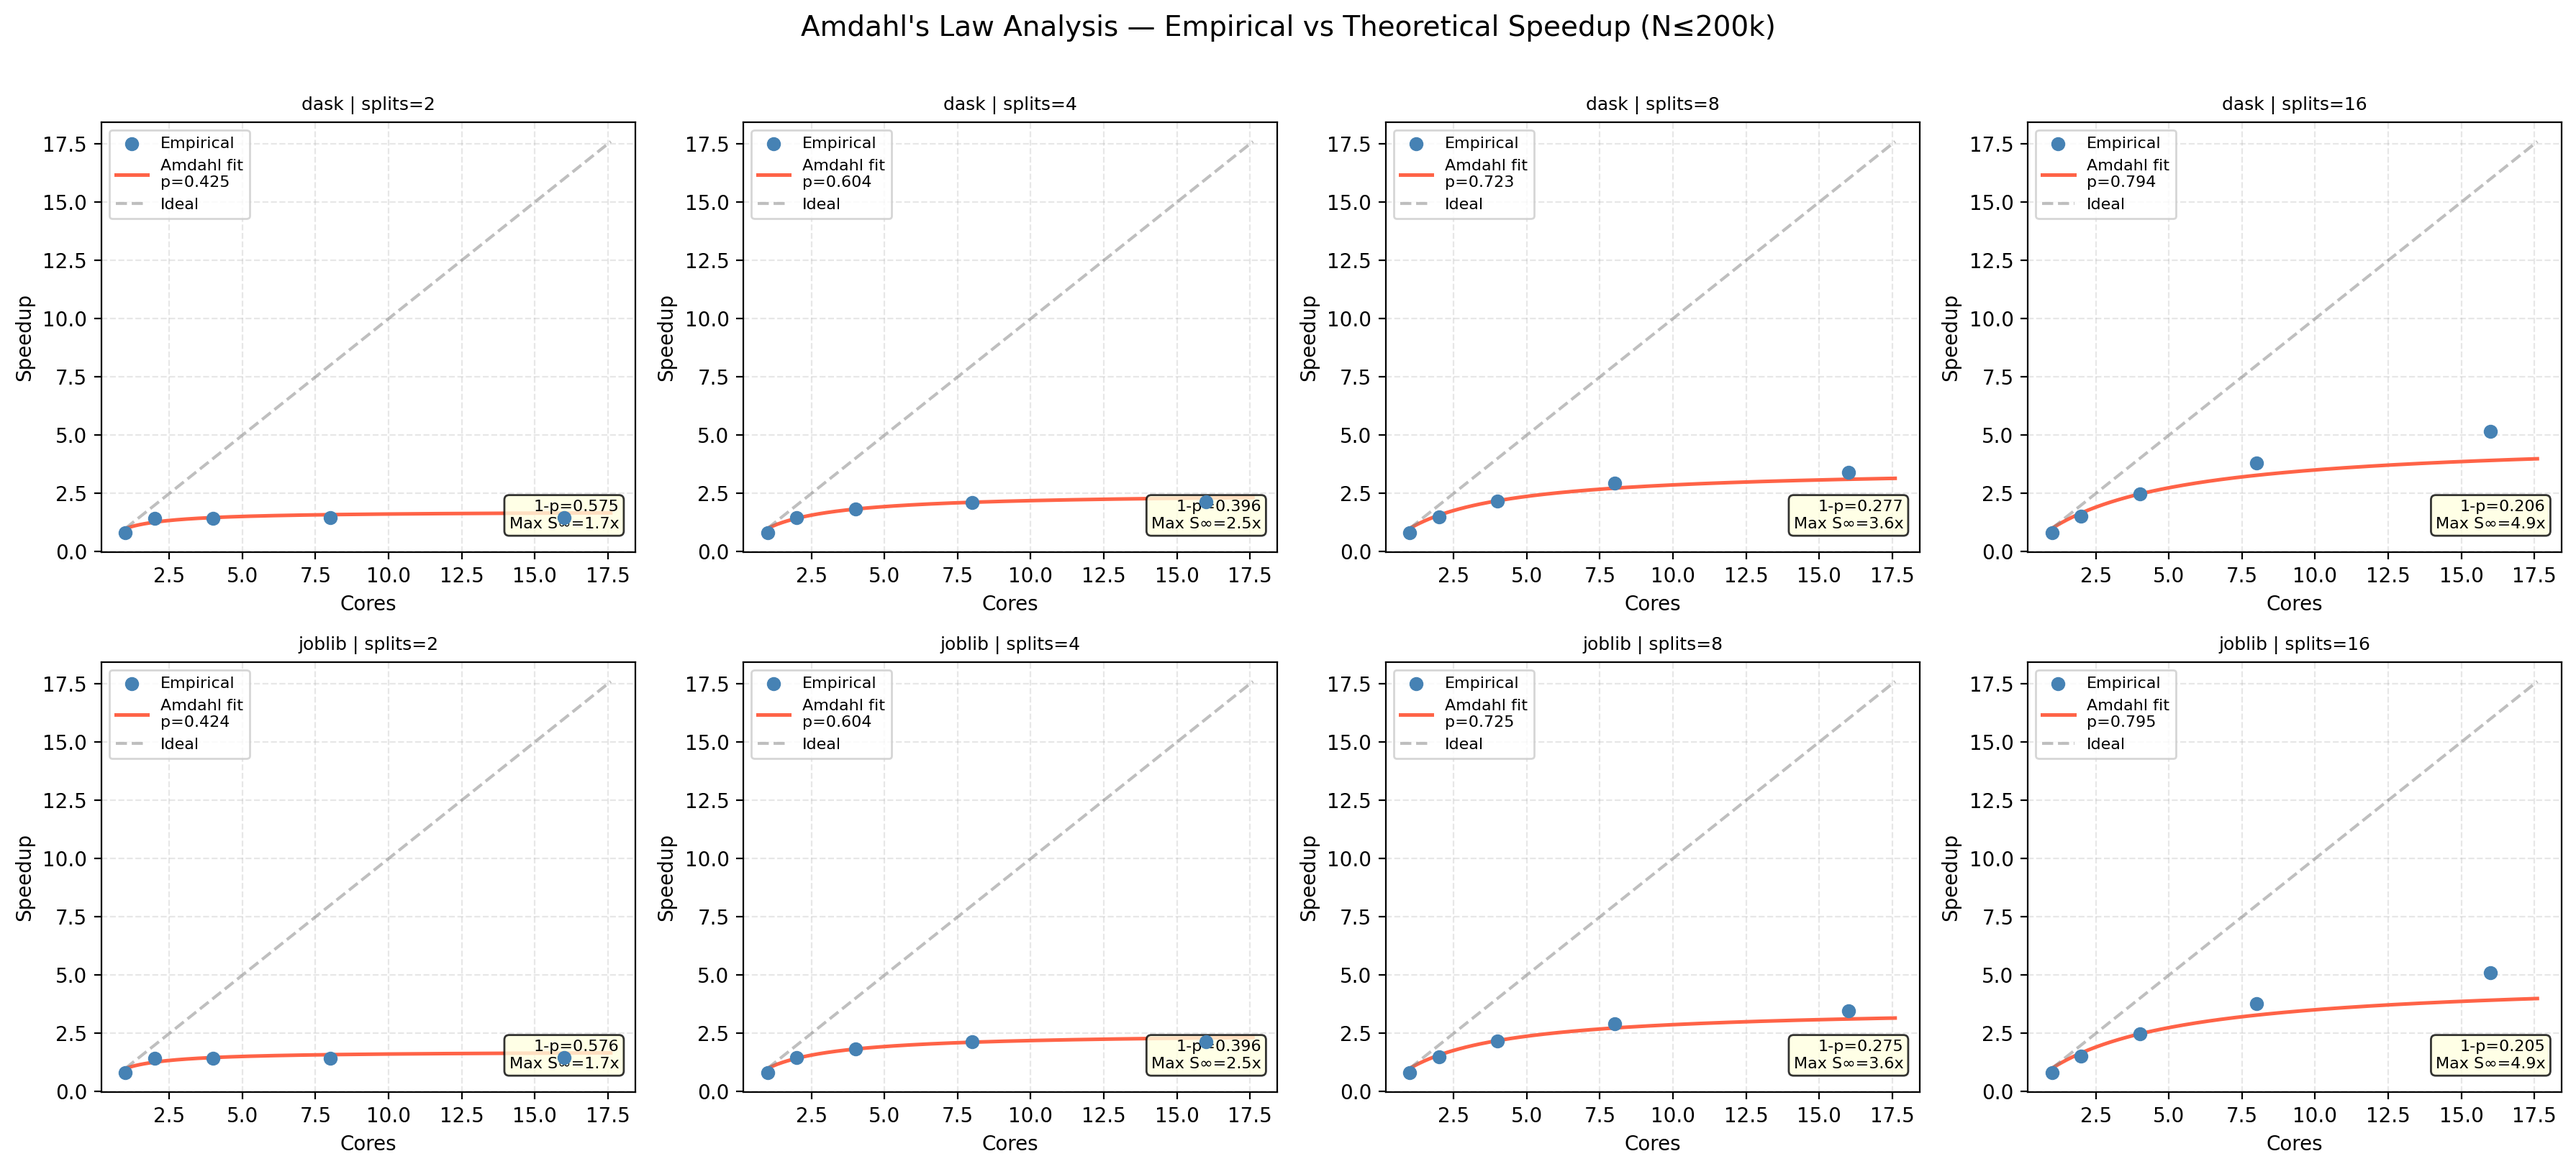
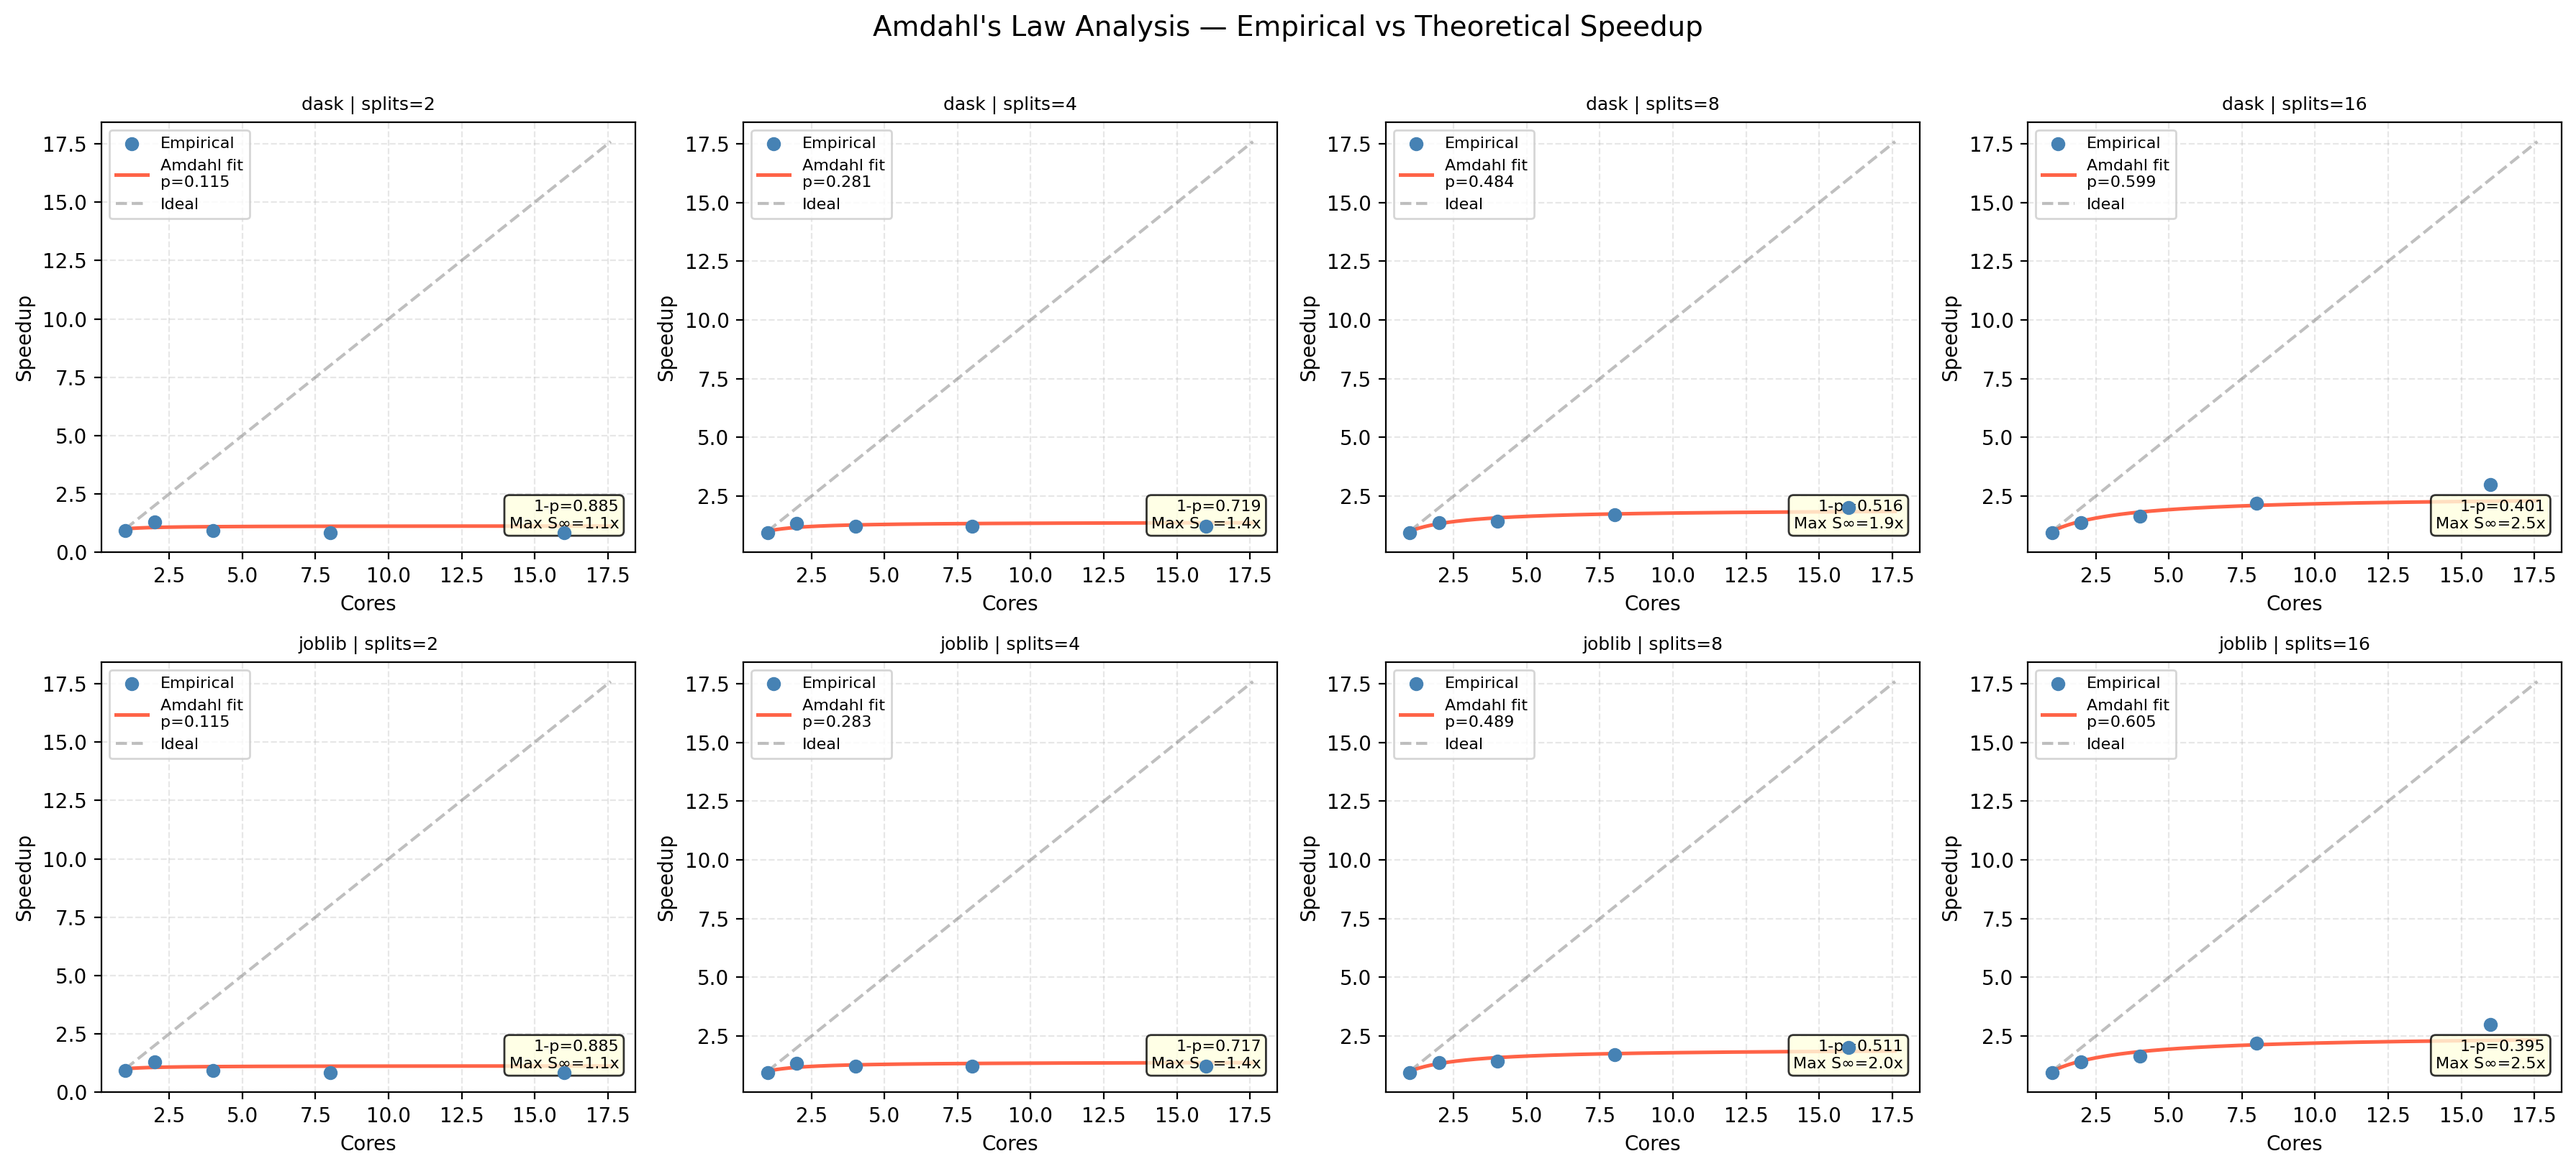
update scale

diff --git a/plot_results.py b/plot_results.py
@@ -85,11 +85,9 @@ def estimate_amdahl_p(speedups, core_counts):
     return float(np.mean(estimates)) if estimates else float("nan")
 
 
-# Plot 1: Speedup & Efficiency (N<=200k)
+# Plot 1: Speedup & Efficiency
 def plot_parallel_performance(df, outpath, method_name="parallel_sdoclust"):
     sub = df[df["method"] == method_name].copy()
-    if "N" in sub.columns:
-        sub = sub[sub["N"] != 1000000]
     sub = sub[sub["centers"] <= 10]
     group_cols = [c for c in ["dataset", "N", "d", "centers", "splits"] if c in sub.columns]
 
@@ -116,12 +114,12 @@ def plot_parallel_performance(df, outpath, method_name="parallel_sdoclust"):
         ax1.plot(data["cores"], data["speedup"], marker='o', label=f"splits={int(s)}")
         ax2.plot(data["cores"], data["efficiency"], marker='s', label=f"splits={int(s)}")
 
-    ax1.set_title("Speedup vs Number of Cores (N≤200k)")
+    ax1.set_title("Speedup vs Number of Cores")
     ax1.set_xlabel("Cores")
     ax1.set_ylabel("Speedup")
     ax1.legend(title="Splits")
 
-    ax2.set_title("Efficiency vs Number of Cores (N≤200k)")
+    ax2.set_title("Efficiency vs Number of Cores")
     ax2.set_xlabel("Cores")
     ax2.set_ylabel("Efficiency")
     ax2.set_ylim(0, 1.2)
@@ -134,13 +132,10 @@ def plot_parallel_performance(df, outpath, method_name="parallel_sdoclust"):
     print(f"  Saved: {outpath}")
 
 
-# Plot 2: Amdahl's Law Fit (N<=200k)
+# Plot 2: Amdahl's Law Fit
 def plot_amdahl_analysis(df, outpath, method_name="parallel_sdoclust"):
     sub = df[(df["method"] == method_name) & (df["backend"] != "seq")].copy()
     seq = df[(df["method"] == method_name) & (df["backend"] == "seq")].copy()
-    if "N" in sub.columns:
-        sub = sub[sub["N"] != 1000000]
-        seq = seq[seq["N"] != 1000000]
     sub = sub[sub["centers"] <= 10]
 
     if sub.empty or seq.empty:
@@ -205,7 +200,7 @@ def plot_amdahl_analysis(df, outpath, method_name="parallel_sdoclust"):
 
             ax.legend(fontsize=8)
 
-    fig.suptitle("Amdahl's Law Analysis — Empirical vs Theoretical Speedup (N≤200k)",
+    fig.suptitle("Amdahl's Law Analysis — Empirical vs Theoretical Speedup",
                  fontsize=14, y=1.01)
     plt.tight_layout()
     plt.savefig(outpath, dpi=200, bbox_inches='tight')
@@ -213,13 +208,10 @@ def plot_amdahl_analysis(df, outpath, method_name="parallel_sdoclust"):
     print(f"  Saved: {outpath}")
 
 
-# Plot 3: Efficiency Drop heat-map (N<=200k)
+# Plot 3: Efficiency Drop heat-map
 def plot_efficiency_drop(df, outpath, method_name="parallel_sdoclust"):
     sub = df[(df["method"] == method_name) & (df["backend"] != "seq")].copy()
     seq = df[(df["method"] == method_name) & (df["backend"] == "seq")].copy()
-    if "N" in sub.columns:
-        sub = sub[sub["N"] != 1000000]
-        seq = seq[seq["N"] != 1000000]
     sub = sub[sub["centers"] <= 10]
 
     if sub.empty or seq.empty:
@@ -266,7 +258,7 @@ def plot_efficiency_drop(df, outpath, method_name="parallel_sdoclust"):
 
         plt.colorbar(im, ax=ax, label="Efficiency (S/n)")
 
-    fig.suptitle("Parallel Efficiency Heat-map (N≤200k)", fontsize=14, y=1.01)
+    fig.suptitle("Parallel Efficiency Heat-map", fontsize=14, y=1.01)
     plt.tight_layout()
     plt.savefig(outpath, dpi=200, bbox_inches='tight')
     plt.close()
@@ -276,8 +268,7 @@ def plot_efficiency_drop(df, outpath, method_name="parallel_sdoclust"):
 # Plot 4: Centers analysis
 def plot_centers_analysis(df, outpath):
     sub = df[df["method"] == "parallel_sdoclust"].copy()
-    if "N" in sub.columns:
-        sub = sub[sub["N"] != 1000000]
+    sub = sub[sub["N"] != 1000000]
     if "centers" not in sub.columns:
         return
 
@@ -502,6 +493,64 @@ def plot_algorithm_time_series(df, outpath, x_axis="cores"):
     plt.close()
     print(f"  Saved: {outpath}")
 
+
+# Plot 9: Large-scale (N=1M) analysis, CORES=1,2,4 only
+def plot_large_scale_analysis(df, outpath):
+    sub = df[df["N"] == 1000000].copy()
+    sub = sub[sub["centers"] <= 10]
+    if sub.empty:
+        print("  [large_scale] No N=1M data – skipping.")
+        return
+
+    methods_map = {
+        "sdoclust_full":     "SDO (Full)",
+        "parallel_sdoclust": "SDO (Parallel)",
+        "kmeans_seq":        "KMeans (Seq)",
+        "minibatch_seq":     "MiniBatch KM (Seq)",
+        "daskml_kmeans":     "KMeans (DaskML)",
+    }
+
+    backend_style_map = {
+        "dask":   dict(linestyle="--", marker="o", linewidth=2.5, markersize=8),
+        "joblib": dict(linestyle="-",  marker="s", linewidth=2.5, markersize=8),
+        "seq":    dict(linestyle=":",  marker="^", linewidth=2.5, markersize=8),
+    }
+
+    fig, (ax1, ax2) = plt.subplots(1, 2, figsize=(16, 6))
+
+    # Left: algorithm comparison
+    algo_sub = sub[sub["method"].isin(methods_map.keys())].copy()
+    algo_sub["method_label"] = algo_sub["method"].map(methods_map)
+    for label, data in algo_sub.groupby("method_label"):
+        agg = data.groupby("cores")["total"].mean().sort_index()
+        ax1.plot(agg.index, agg.values, marker='o', label=label, linewidth=2)
+
+    ax1.set_title("Execution Time by Algorithm (N=1M)")
+    ax1.set_xlabel("Cores")
+    ax1.set_ylabel("Total Time (sec)")
+    ax1.set_xticks([1, 2, 4])
+    ax1.legend(title="Algorithms")
+
+    # Right: backend comparison for parallel_sdoclust
+    para_sub = sub[sub["method"] == "parallel_sdoclust"].copy()
+    para_sub = para_sub[para_sub["backend"].isin(["seq", "joblib", "dask"])]
+    for backend, data in para_sub.groupby("backend"):
+        agg = data.groupby("cores")["total"].mean().sort_index()
+        kw = backend_style_map.get(backend, dict(linestyle="-", marker="s", linewidth=2))
+        ax2.plot(agg.index, agg.values, label=f"Backend: {backend}", **kw)
+
+    ax2.set_title("Backend Comparison: Parallel SDOclust (N=1M)")
+    ax2.set_xlabel("Cores")
+    ax2.set_ylabel("Total Time (sec)")
+    ax2.set_xticks([1, 2, 4])
+    ax2.legend(title="Backends")
+
+    fig.suptitle("Large-Scale Performance Analysis: N=1,000,000", fontsize=16, y=0.98)
+    plt.tight_layout(rect=[0, 0, 1, 1])
+    plt.savefig(outpath, dpi=200, bbox_inches='tight')
+    plt.close()
+    print(f"  Saved: {outpath}")
+
     
 def main():
     FIG_DIR.mkdir(parents=True, exist_ok=True)
@@ -518,6 +567,7 @@ def main():
     plot_centers_accuracy_comparison(df, FIG_DIR / "centers_accuracy_comparison.png")
     plot_accuracy_consistency_comparison(df, FIG_DIR / "accuracy_consistency_analysis.png")
     plot_algorithm_time_series(df, FIG_DIR / "algorithm_speed_comparison.png")
+    plot_large_scale_analysis(df, FIG_DIR / "large_scale_analysis.png")
 
     print(f"\nAll figures saved to: {FIG_DIR}")
 

diff --git a/README.md b/README.md
@@ -180,8 +180,6 @@ submit.sh calls srun to be allocated the specified CPU cores (1–16) and automa
 - DaskML KMeans: Included as a distributed baseline. Its runtime was considerably higher than standard KMeans variants at the tested dataset sizes, suggesting that distributed coordination overhead outweighs the benefits at this scale.  
 -  Both `joblib` and `dask` backends reduce runtime compared to the sequential baseline at this scale.  
 
-![](results/figures/large_scale_analysis.png)
-
 ### Benchmarking on Robustness
 - **Noise Robustness:** On the `noisy_blobs` dataset, parallel SDOclust achieved comparable ARI scores to KMeans (Seq) and MB-KMeans, while 
 consistently outperforming KMeans (DaskML).  
